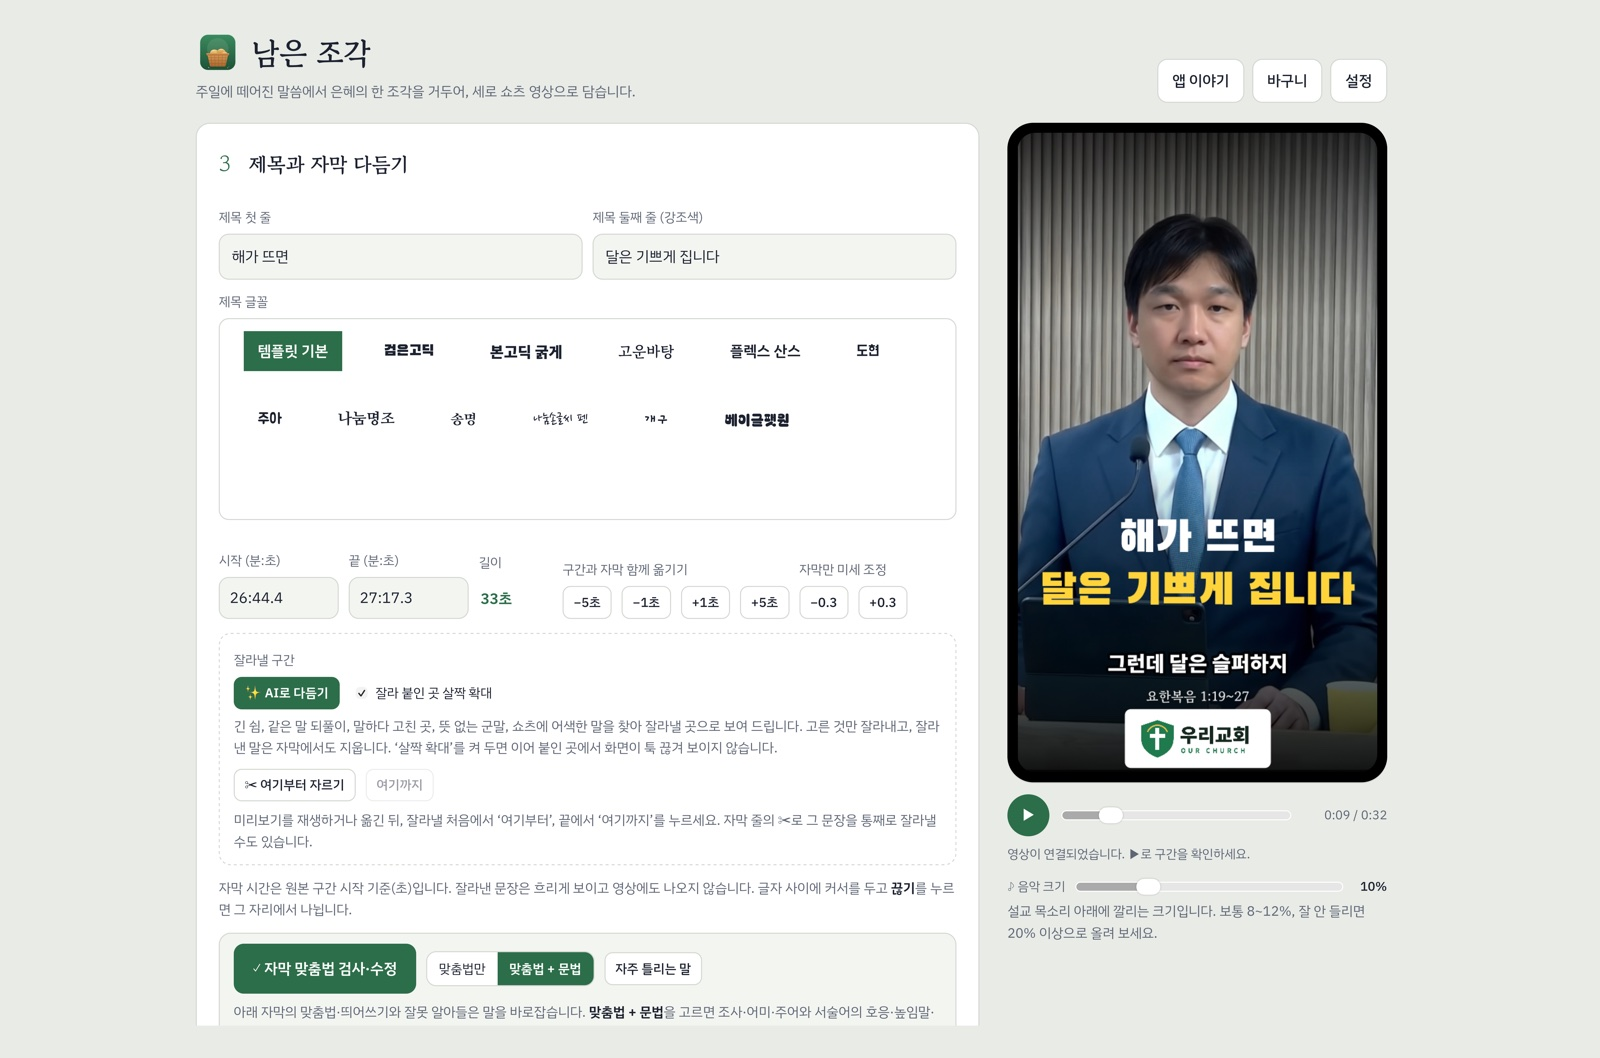
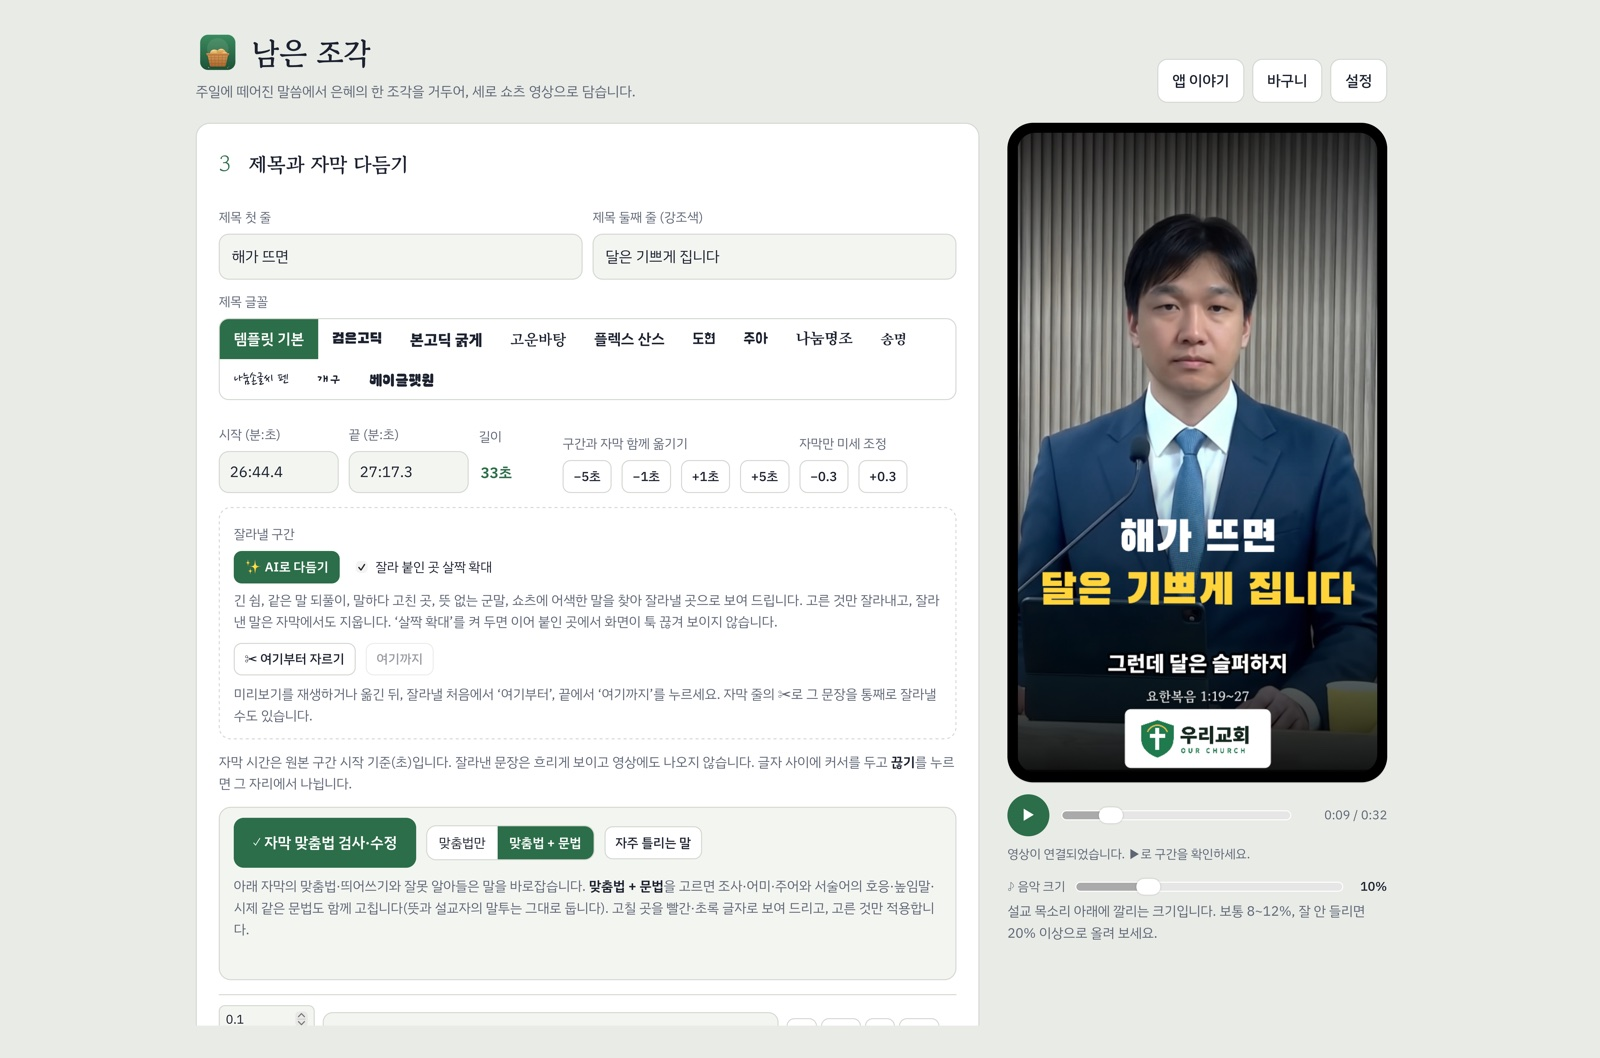
Screens refreshed; version.json 0.8.1

diff --git a/index.html b/index.html
@@ -4,7 +4,7 @@
 <meta name="description" content="설교 영상에서 은혜의 한 대목을 골라 1분 세로 쇼츠로 만드는 맥·아이패드 앱. 받아쓰기, AI 구간 추천, 교회 템플릿, 유튜브 예약 공개까지.">
 <meta property="og:title" content="남은 조각 — 주일 말씀의 한 조각을 쇼츠로">
 <meta property="og:description" content="설교 영상에서 은혜의 한 대목을 골라 1분 세로 쇼츠로 만드는 맥·아이패드 앱">
-<meta property="og:image" content="https://namunjogak.com/img/tpl_grace.jpg?v=20261012">
+<meta property="og:image" content="https://namunjogak.com/img/tpl_grace.jpg?v=202610121">
 <link rel="icon" href="icon.png">
 <link rel="preconnect" href="https://fonts.googleapis.com"><link rel="preconnect" href="https://fonts.gstatic.com" crossorigin>
 <link href="https://fonts.googleapis.com/css2?family=Gowun+Batang:wght@400;700&family=Noto+Sans+KR:wght@400;500;700;900&display=swap" rel="stylesheet">
@@ -28,9 +28,9 @@
       <p class="note">맥(macOS 13 이상) · <a href="#ipad" style="color:inherit">아이패드(iPadOS 16.4 이상) 곧 출시</a> · <a href="#windows" style="color:inherit">Windows 곧 출시</a></p>
     </div>
     <div class="hero-phones">
-      <img class="ph p1" src="img/tpl_card.jpg?v=20261012" alt="말씀 카드 템플릿으로 만든 쇼츠">
-      <img class="ph p2" src="img/tpl_grace.jpg?v=20261012" alt="은혜 한 줄 템플릿으로 만든 쇼츠">
-      <img class="ph p3" src="img/tpl_sunday.jpg?v=20261012" alt="주일 예고 템플릿으로 만든 쇼츠">
+      <img class="ph p1" src="img/tpl_card.jpg?v=202610121" alt="말씀 카드 템플릿으로 만든 쇼츠">
+      <img class="ph p2" src="img/tpl_grace.jpg?v=202610121" alt="은혜 한 줄 템플릿으로 만든 쇼츠">
+      <img class="ph p3" src="img/tpl_sunday.jpg?v=202610121" alt="주일 예고 템플릿으로 만든 쇼츠">
     </div>
   </div>
 </header>
@@ -63,23 +63,23 @@
   <h2 class="center">실제 화면으로 보기</h2>
   <p class="sub center">한 화면에서 위에서 아래로 차례대로 진행합니다. 오른쪽에서는 만들어질 쇼츠를 바로 확인합니다.<br><span class="zhint"><span class="hm">사진에 마우스를 올리면 크게 보이고, 누르면 화면 가득 펼쳐집니다.</span><span class="ht">사진을 누르면 화면 가득 크게 볼 수 있습니다.</span></span></p>
   <div class="shot">
-    <div class="win"><div class="bar"><i></i><i></i><i></i></div><div class="zoom" tabindex="0" role="button" aria-label="설교 넣기 화면 크게 보기"><img src="img/app_1.jpg?v=20261012" alt="설교 넣기 화면" loading="lazy"></div></div>
+    <div class="win"><div class="bar"><i></i><i></i><i></i></div><div class="zoom" tabindex="0" role="button" aria-label="설교 넣기 화면 크게 보기"><img src="img/app_1.jpg?v=202610121" alt="설교 넣기 화면" loading="lazy"></div></div>
     <div class="txt"><span class="stepno">1단계 · 설교 넣기</span><h3>유튜브 링크 하나면 시작됩니다</h3><p>설교 영상의 유튜브 주소를 붙여 넣거나 영상 파일을 넣으면, 앱이 영상을 받아 한국어로 받아씁니다. 받아쓴 글은 시간과 함께 정리되어 바로 아래에 나타납니다.</p></div>
   </div>
   <div class="shot rev">
-    <div class="win"><div class="bar"><i></i><i></i><i></i></div><div class="zoom" tabindex="0" role="button" aria-label="구간 고르기 화면 크게 보기"><img src="img/app_2.jpg?v=20261012" alt="구간 고르기 화면" loading="lazy"></div></div>
+    <div class="win"><div class="bar"><i></i><i></i><i></i></div><div class="zoom" tabindex="0" role="button" aria-label="구간 고르기 화면 크게 보기"><img src="img/app_2.jpg?v=202610121" alt="구간 고르기 화면" loading="lazy"></div></div>
     <div class="txt"><span class="stepno">2단계 · 구간 고르기</span><h3>AI가 은혜의 조각을 최대 6개 골라 드립니다</h3><p>설교 가운데 쇼츠로 쓸 만한 구간을 내용에 따라 서로 겹치지 않게 최대 6개 고르고, 고른 이유와 제목까지 붙여 줍니다. 카드를 누르면 오른쪽 미리보기에 바로 나타납니다.</p></div>
   </div>
   <div class="shot">
-    <div class="win"><div class="bar"><i></i><i></i><i></i></div><div class="zoom" tabindex="0" role="button" aria-label="제목과 자막 다듬기 화면 크게 보기"><img src="img/app_3.jpg?v=20261012" alt="제목과 자막 다듬기 화면" loading="lazy"></div></div>
+    <div class="win"><div class="bar"><i></i><i></i><i></i></div><div class="zoom" tabindex="0" role="button" aria-label="제목과 자막 다듬기 화면 크게 보기"><img src="img/app_3.jpg?v=202610121" alt="제목과 자막 다듬기 화면" loading="lazy"></div></div>
     <div class="txt"><span class="stepno">3단계 · 제목과 자막 다듬기</span><h3>말씀하신 그 순간에 자막이 정확히</h3><p>시작·끝 시간을 0.3초 단위로 맞추고, 자막 맞춤법을 검사하고, 어색한 멘트나 긴 쉼은 ‘AI로 다듬기’로 잘라냅니다. 고친 내용은 미리보기에 그대로 반영됩니다.</p></div>
   </div>
   <div class="shot rev">
-    <div class="win"><div class="bar"><i></i><i></i><i></i></div><div class="zoom" tabindex="0" role="button" aria-label="템플릿과 교회 정보 화면 크게 보기"><img src="img/app_4.jpg?v=20261012" alt="템플릿과 교회 정보 화면" loading="lazy"></div></div>
+    <div class="win"><div class="bar"><i></i><i></i><i></i></div><div class="zoom" tabindex="0" role="button" aria-label="템플릿과 교회 정보 화면 크게 보기"><img src="img/app_4.jpg?v=202610121" alt="템플릿과 교회 정보 화면" loading="lazy"></div></div>
     <div class="txt"><span class="stepno">4단계 · 템플릿과 교회 정보</span><h3>템플릿 56종 · 제목 글꼴 11종 · 배경 음악 21곡</h3><p>설교자를 크게 담는 설교자용(상반신 · 전신 · 감성형 · 필름 톤)부터 말씀 카드, 주일 예고, 금요 기도회, 찬양 가사, 주일학교, 청년부까지. 교회 로고와 설교 본문이 자동으로 들어가고, 부서 · 모임 이름은 템플릿마다 바꿔 쓸 수 있습니다. 우리 교회만의 템플릿도 직접 만듭니다.</p></div>
   </div>
   <div class="shot">
-    <div class="win"><div class="bar"><i></i><i></i><i></i></div><div class="zoom" tabindex="0" role="button" aria-label="유튜브 설명란 패키지 화면 크게 보기"><img src="img/app_5.jpg?v=20261012" alt="유튜브 설명란 패키지 화면" loading="lazy"></div></div>
+    <div class="win"><div class="bar"><i></i><i></i><i></i></div><div class="zoom" tabindex="0" role="button" aria-label="유튜브 설명란 패키지 화면 크게 보기"><img src="img/app_5.jpg?v=202610121" alt="유튜브 설명란 패키지 화면" loading="lazy"></div></div>
     <div class="txt"><span class="stepno">5단계 · 유튜브 설명란 패키지</span><h3>제목·설명란·해시태그까지 한 번에</h3><p>올릴 때 필요한 제목 후보와 설명란, 해시태그를 AI가 써 줍니다. 복사해서 쓰시거나, 유튜브에 연결해 예약 공개로 바로 올릴 수 있습니다.</p></div>
   </div>
 </div></section>
@@ -105,30 +105,30 @@
   <h2 class="center">교회를 위한 템플릿</h2>
   <p class="sub center">56종 가운데 일부입니다. 옆으로 넘겨 보세요. 움직이는 빛·눈·별 효과와 이모티콘도 얹을 수 있습니다. <span style="color:var(--mute)">(인물과 교회 로고는 예시용입니다)</span></p>
   <div class="strip">
-    <figure><img src="img/tpl_hl.jpg?v=20261012" alt="" loading="lazy"><figcaption>설교 하이라이트</figcaption></figure>
-    <figure><img src="img/tpl_up_top.jpg?v=20261012" alt="" loading="lazy"><figcaption>위 색 띠 제목</figcaption></figure>
-    <figure><img src="img/tpl_up_left.jpg?v=20261012" alt="" loading="lazy"><figcaption>형광펜 제목</figcaption></figure>
-    <figure><img src="img/tpl_up_series.jpg?v=20261012" alt="" loading="lazy"><figcaption>시리즈 액자</figcaption></figure>
-    <figure><img src="img/tpl_full_top.jpg?v=20261012" alt="" loading="lazy"><figcaption>흰 카드 제목</figcaption></figure>
-    <figure><img src="img/tpl_full_series.jpg?v=20261012" alt="" loading="lazy"><figcaption>비스듬한 색 판</figcaption></figure>
-    <figure><img src="img/tpl_mood_gold.jpg?v=20261012" alt="" loading="lazy"><figcaption>금빛 액자</figcaption></figure>
-    <figure><img src="img/tpl_mood_stroke.jpg?v=20261012" alt="" loading="lazy"><figcaption>붓 밑줄 강조</figcaption></figure>
-    <figure><img src="img/tpl_mood_brush.jpg?v=20261012" alt="" loading="lazy"><figcaption>붓글씨</figcaption></figure>
-    <figure><img src="img/tpl_mood_navy.jpg?v=20261012" alt="" loading="lazy"><figcaption>남색 판 · 금색 줄</figcaption></figure>
-    <figure><img src="img/tpl_mood_green.jpg?v=20261012" alt="" loading="lazy"><figcaption>초록 둥근 창</figcaption></figure>
-    <figure><img src="img/tpl_film_bw.jpg?v=20261012" alt="" loading="lazy"><figcaption>흑백 필름</figcaption></figure>
-    <figure><img src="img/tpl_film_frame.jpg?v=20261012" alt="" loading="lazy"><figcaption>필름 테두리</figcaption></figure>
-    <figure><img src="img/tpl_film_photo.jpg?v=20261012" alt="" loading="lazy"><figcaption>옛 사진</figcaption></figure>
-    <figure><img src="img/tpl_grace.jpg?v=20261012" alt="" loading="lazy"><figcaption>은혜 한 줄</figcaption></figure>
-    <figure><img src="img/tpl_card.jpg?v=20261012" alt="" loading="lazy"><figcaption>말씀 카드</figcaption></figure>
-    <figure><img src="img/tpl_calli.jpg?v=20261012" alt="" loading="lazy"><figcaption>성경 구절 캘리그라피</figcaption></figure>
-    <figure><img src="img/tpl_sunday.jpg?v=20261012" alt="" loading="lazy"><figcaption>주일 예고</figcaption></figure>
-    <figure><img src="img/tpl_dawn.jpg?v=20261012" alt="" loading="lazy"><figcaption>새벽 기도</figcaption></figure>
-    <figure><img src="img/tpl_fri.jpg?v=20261012" alt="" loading="lazy"><figcaption>금요 기도회</figcaption></figure>
-    <figure><img src="img/tpl_praise.jpg?v=20261012" alt="" loading="lazy"><figcaption>찬양 가사</figcaption></figure>
-    <figure><img src="img/tpl_kids.jpg?v=20261012" alt="" loading="lazy"><figcaption>어린이 주일학교</figcaption></figure>
-    <figure><img src="img/tpl_young.jpg?v=20261012" alt="" loading="lazy"><figcaption>청년부</figcaption></figure>
-    <figure><img src="img/tpl_qt.jpg?v=20261012" alt="" loading="lazy"><figcaption>큐티 공책</figcaption></figure>
+    <figure><img src="img/tpl_hl.jpg?v=202610121" alt="" loading="lazy"><figcaption>설교 하이라이트</figcaption></figure>
+    <figure><img src="img/tpl_up_top.jpg?v=202610121" alt="" loading="lazy"><figcaption>위 색 띠 제목</figcaption></figure>
+    <figure><img src="img/tpl_up_left.jpg?v=202610121" alt="" loading="lazy"><figcaption>형광펜 제목</figcaption></figure>
+    <figure><img src="img/tpl_up_series.jpg?v=202610121" alt="" loading="lazy"><figcaption>시리즈 액자</figcaption></figure>
+    <figure><img src="img/tpl_full_top.jpg?v=202610121" alt="" loading="lazy"><figcaption>흰 카드 제목</figcaption></figure>
+    <figure><img src="img/tpl_full_series.jpg?v=202610121" alt="" loading="lazy"><figcaption>비스듬한 색 판</figcaption></figure>
+    <figure><img src="img/tpl_mood_gold.jpg?v=202610121" alt="" loading="lazy"><figcaption>금빛 액자</figcaption></figure>
+    <figure><img src="img/tpl_mood_stroke.jpg?v=202610121" alt="" loading="lazy"><figcaption>붓 밑줄 강조</figcaption></figure>
+    <figure><img src="img/tpl_mood_brush.jpg?v=202610121" alt="" loading="lazy"><figcaption>붓글씨</figcaption></figure>
+    <figure><img src="img/tpl_mood_navy.jpg?v=202610121" alt="" loading="lazy"><figcaption>남색 판 · 금색 줄</figcaption></figure>
+    <figure><img src="img/tpl_mood_green.jpg?v=202610121" alt="" loading="lazy"><figcaption>초록 둥근 창</figcaption></figure>
+    <figure><img src="img/tpl_film_bw.jpg?v=202610121" alt="" loading="lazy"><figcaption>흑백 필름</figcaption></figure>
+    <figure><img src="img/tpl_film_frame.jpg?v=202610121" alt="" loading="lazy"><figcaption>필름 테두리</figcaption></figure>
+    <figure><img src="img/tpl_film_photo.jpg?v=202610121" alt="" loading="lazy"><figcaption>옛 사진</figcaption></figure>
+    <figure><img src="img/tpl_grace.jpg?v=202610121" alt="" loading="lazy"><figcaption>은혜 한 줄</figcaption></figure>
+    <figure><img src="img/tpl_card.jpg?v=202610121" alt="" loading="lazy"><figcaption>말씀 카드</figcaption></figure>
+    <figure><img src="img/tpl_calli.jpg?v=202610121" alt="" loading="lazy"><figcaption>성경 구절 캘리그라피</figcaption></figure>
+    <figure><img src="img/tpl_sunday.jpg?v=202610121" alt="" loading="lazy"><figcaption>주일 예고</figcaption></figure>
+    <figure><img src="img/tpl_dawn.jpg?v=202610121" alt="" loading="lazy"><figcaption>새벽 기도</figcaption></figure>
+    <figure><img src="img/tpl_fri.jpg?v=202610121" alt="" loading="lazy"><figcaption>금요 기도회</figcaption></figure>
+    <figure><img src="img/tpl_praise.jpg?v=202610121" alt="" loading="lazy"><figcaption>찬양 가사</figcaption></figure>
+    <figure><img src="img/tpl_kids.jpg?v=202610121" alt="" loading="lazy"><figcaption>어린이 주일학교</figcaption></figure>
+    <figure><img src="img/tpl_young.jpg?v=202610121" alt="" loading="lazy"><figcaption>청년부</figcaption></figure>
+    <figure><img src="img/tpl_qt.jpg?v=202610121" alt="" loading="lazy"><figcaption>큐티 공책</figcaption></figure>
   </div>
   <p class="tplnote center"><span>✨ 템플릿은 계속 업데이트됩니다.</span> 새 템플릿이 나오면 업데이트로 받아 그대로 쓰실 수 있습니다.</p>
 </div></section>
